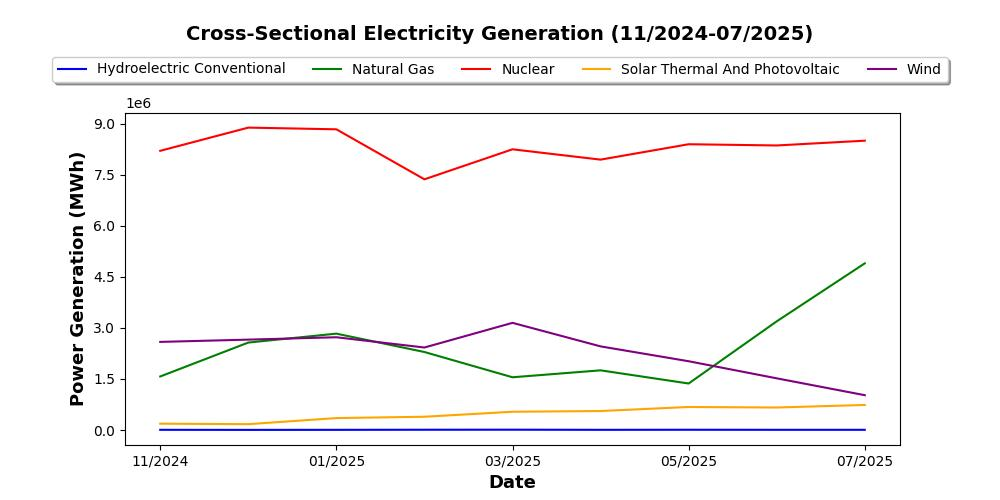
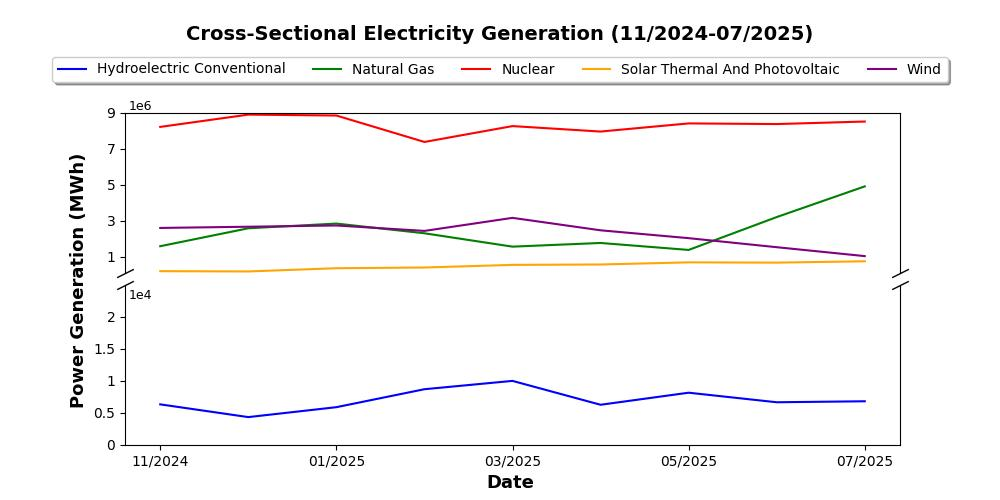
Added broken axes for better visual representation.

diff --git a/DEP/Analysis_Deck/cross_section.py b/DEP/Analysis_Deck/cross_section.py
@@ -4,9 +4,11 @@ from datetime import datetime
 from dateutil.relativedelta import relativedelta
 
 filepath = '../PTC_ts.csv'
-savefolder = 'IRA'
+savefolder_1 = 'IRA'
+savefolder_2 = 'Long Horizon'
 cols = ['Hydroelectric conventional', 'Natural gas', 'Nuclear', 'Solar thermal and photovoltaic', 'Wind']
 
+### TODO: OBJECTIVE 1
 def create_cross_section(filepath, month_start, year_start, cols, savefolder):
     data_csv = pd.read_csv(filepath)
 
@@ -20,54 +22,78 @@ def create_cross_section(filepath, month_start, year_start, cols, savefolder):
     data_csv = data_csv[['Datetime'] + cols]
 
     colors = ['blue', 'green', 'red', 'orange', 'purple']
-    fig, axs = plt.subplots(nrows=1, ncols=1, figsize=(10, 5))
-    plt.subplots_adjust(top=0.775)
-    for id, col in enumerate(cols):
-        axs.plot(data_csv['Datetime'], data_csv[col], color=colors[id], label = ' '.join([s[0].upper()+s[1:] for s in col.split()]), linewidth=1.5)
-    
-    fig.legend(loc='upper center', ncols=5, bbox_to_anchor=(0.5, 0.9), shadow=True)
-    axs.set_xlabel('Date', fontsize=13, fontweight='bold')
-    axs.set_ylabel('Power Generation (MWh)', fontsize=13, fontweight='bold')
-    fig.suptitle(f'Cross-Sectional Electricity Generation ({'/'.join(str(start_date).split()[0].split('-')[:2][::-1])}-{'/'.join(str(end_date).split()[0].split('-')[:2][::-1])})', fontsize=14, fontweight='bold', y=0.95)
-    
-    axs.set_yticks([x*1.5e6 for x in range(7)])
+    fig, axs = plt.subplots(nrows=2, ncols=1, figsize=(10, 5))
 
-    axs.set_xticks(data_csv['Datetime'].to_list()[::2])
-    axs.set_xticklabels(['/'.join(s.split('-')[:2][::-1]) for s in data_csv['Datetime'].to_list()][::2])
+    plt.subplots_adjust(top=0.775, hspace=0.075)
+
+    for id, col in enumerate(cols):
+        axs[0].plot(data_csv['Datetime'], data_csv[col], color=colors[id], label = ' '.join([s[0].upper()+s[1:] for s in col.split()]), linewidth=1.5)
+        axs[1].plot(data_csv['Datetime'], data_csv[col], color=colors[id], label = ' '.join([s[0].upper()+s[1:] for s in col.split()]), linewidth=1.5)
+    
+    axs[0].set_ylim(1e5, 9e6)
+    axs[1].set_ylim(0, 2.5e4)
+
+    axs[0].spines.bottom.set_visible(False)
+    axs[0].tick_params(top=False, bottom=False, labelbottom=False)
+    axs[0].tick_params(labeltop=False)
+    axs[1].spines.top.set_visible(False)
+    axs[1].xaxis.tick_bottom()
+
+    kwargs = dict(marker=[(-1, -0.5), (1, 0.5)], markersize=12, linestyle='none', color='k', mec='k', mew=1, clip_on=False)
+    axs[0].plot([0, 1], [0, 0], transform=axs[0].transAxes, **kwargs)
+    axs[1].plot([0, 1], [1, 1], transform=axs[1].transAxes, **kwargs)
+
+    axs[0].set_yticks([1e6+x*2e6 for x in range(5)])
+    axs[0].set_yticklabels(['1', '3', '5', '7', '9'])
+    axs[1].set_yticks([x*5e3 for x in range(5)])
+    axs[1].set_yticklabels(['0', '0.5', '1', '1.5', '2'])
+
+    axs[0].text(5e-3, 1.075, "1e6", transform=axs[0].transAxes, ha="left", va="top", fontsize=9)
+    axs[1].text(5e-3, 0.975, "1e4", transform=axs[1].transAxes, ha="left", va="top", fontsize=9)
+
+    fig.supylabel('Power Generation (MWh)', fontsize=13, fontweight='bold', x=0.07, y=0.44)
+    fig.supxlabel('Date', fontsize=13, fontweight='bold', x=0.5105, y=0.015)
+
+    handles, labels = axs[0].get_legend_handles_labels()
+    unique = dict(zip(labels, handles))
+    fig.legend(unique.values(), unique.keys(), loc="upper center", ncols=5, bbox_to_anchor=(0.5, 0.9), shadow=True)
+
+    # fig.legend(loc='upper center', ncols=5, bbox_to_anchor=(0.5, 0.9), shadow=True)
+    fig.suptitle(f'Cross-Sectional Electricity Generation ({'/'.join(str(start_date).split()[0].split('-')[:2][::-1])}-{'/'.join(str(end_date).split()[0].split('-')[:2][::-1])})', fontsize=14, fontweight='bold', y=0.95)
+    axs[1].set_xticks(data_csv['Datetime'].to_list()[::2])
+    axs[1].set_xticklabels(['/'.join(s.split('-')[:2][::-1]) for s in data_csv['Datetime'].to_list()][::2])
     plt.savefig(f'{savefolder}/{month_start}_{year_start}_event.jpg')
 
 ### IRA signed by Biden.
-create_cross_section(filepath, 8, 2022, cols, savefolder)
+create_cross_section(filepath, 8, 2022, cols, savefolder_1)
 
 ### IRA comes into effect.
-create_cross_section(filepath, 1, 2023, cols, savefolder)
+create_cross_section(filepath, 1, 2023, cols, savefolder_1)
 
 ### OBBBA signed by Trump.
-create_cross_section(filepath, 7, 2025, cols, savefolder)
+create_cross_section(filepath, 7, 2025, cols, savefolder_1)
 
 ### Clean Energy Production Tax Credit passed.
-create_cross_section(filepath, 8, 2024, cols, savefolder)
+create_cross_section(filepath, 8, 2024, cols, savefolder_1)
 
 ### IRA credits expired by Trump.
-create_cross_section(filepath, 1, 2025, cols, savefolder)
+create_cross_section(filepath, 1, 2025, cols, savefolder_1)
 
 ### Donald Trump elected.
-create_cross_section(filepath, 11, 2024, cols, savefolder)
+create_cross_section(filepath, 11, 2024, cols, savefolder_1)
 
 ### $156 million solar grant by Pritzker.
-create_cross_section(filepath, 4, 2024, cols, savefolder)
+create_cross_section(filepath, 4, 2024, cols, savefolder_1)
 
 ### ABP lottery system change.
-create_cross_section(filepath, 4, 2019, cols, savefolder)
+create_cross_section(filepath, 4, 2019, cols, savefolder_2)
 
 
-
-### TODO: FOR SIA.
+### TODO: OBJECTIVE 2
 data_csv = pd.read_csv(filepath)
 
 # Look-back two months, look ahead 6 months (8 months total interval).
 start_date = datetime.strptime('2017', '%Y')
-print(start_date)
 start_date, end_date = start_date - relativedelta(months=2), start_date + relativedelta(years=4)
 
 datetimes = pd.to_datetime(data_csv['Datetime'])
@@ -76,18 +102,43 @@ data_csv = data_csv[(datetimes >= start_date) & (datetimes <= end_date)]
 data_csv = data_csv[['Datetime'] + cols]
 
 colors = ['blue', 'green', 'red', 'orange', 'purple']
-fig, axs = plt.subplots(nrows=1, ncols=1, figsize=(10, 5))
-plt.subplots_adjust(top=0.775)
+fig, axs = plt.subplots(nrows=2, ncols=1, figsize=(10, 5))
+
+plt.subplots_adjust(top=0.775, hspace=0.075)
+
 for id, col in enumerate(cols):
-    axs.plot(data_csv['Datetime'], data_csv[col], color=colors[id], label = ' '.join([s[0].upper()+s[1:] for s in col.split()]), linewidth=1.5)
+    axs[0].plot(data_csv['Datetime'], data_csv[col], color=colors[id], label = ' '.join([s[0].upper()+s[1:] for s in col.split()]), linewidth=1.5)
+    axs[1].plot(data_csv['Datetime'], data_csv[col], color=colors[id], label = ' '.join([s[0].upper()+s[1:] for s in col.split()]), linewidth=1.5)
 
-fig.legend(loc='upper center', ncols=5, bbox_to_anchor=(0.5, 0.9), shadow=True)
-axs.set_xlabel('Date', fontsize=13, fontweight='bold')
-axs.set_ylabel('Power Generation (MWh)', fontsize=13, fontweight='bold')
+axs[0].set_ylim(1e5, 9e6)
+axs[1].set_ylim(0, 2.5e4)
+
+axs[0].spines.bottom.set_visible(False)
+axs[0].tick_params(top=False, bottom=False, labelbottom=False)
+axs[0].tick_params(labeltop=False)
+axs[1].spines.top.set_visible(False)
+axs[1].xaxis.tick_bottom()
+
+kwargs = dict(marker=[(-1, -0.5), (1, 0.5)], markersize=12, linestyle='none', color='k', mec='k', mew=1, clip_on=False)
+axs[0].plot([0, 1], [0, 0], transform=axs[0].transAxes, **kwargs)
+axs[1].plot([0, 1], [1, 1], transform=axs[1].transAxes, **kwargs)
+
+axs[0].set_yticks([1e6+x*2e6 for x in range(5)])
+axs[0].set_yticklabels(['1', '3', '5', '7', '9'])
+axs[1].set_yticks([x*5e3 for x in range(5)])
+axs[1].set_yticklabels(['0', '0.5', '1', '1.5', '2'])
+
+axs[0].text(5e-3, 1.075, "1e6", transform=axs[0].transAxes, ha="left", va="top", fontsize=9)
+axs[1].text(5e-3, 0.975, "1e4", transform=axs[1].transAxes, ha="left", va="top", fontsize=9)
+
+fig.supylabel('Power Generation (MWh)', fontsize=13, fontweight='bold', x=0.07, y=0.44)
+fig.supxlabel('Date', fontsize=13, fontweight='bold', x=0.5105, y=0.015)
+
+handles, labels = axs[0].get_legend_handles_labels()
+unique = dict(zip(labels, handles))
+fig.legend(unique.values(), unique.keys(), loc="upper center", ncols=5, bbox_to_anchor=(0.5, 0.9), shadow=True)
+
 fig.suptitle(f'Cross-Sectional Electricity Generation ({'/'.join(str(start_date).split()[0].split('-')[:2][::-1])}-{'/'.join(str(end_date).split()[0].split('-')[:2][::-1])})', fontsize=14, fontweight='bold', y=0.95)
-
-axs.set_yticks([x*1.5e6 for x in range(7)])
-
-axs.set_xticks(data_csv['Datetime'].to_list()[::5])
-axs.set_xticklabels(['/'.join(s.split('-')[:2][::-1]) for s in data_csv['Datetime'].to_list()][::5])
-plt.savefig(f'{savefolder}/2017_2021_event.jpg')
+axs[1].set_xticks(data_csv['Datetime'].to_list()[::5])
+axs[1].set_xticklabels(['/'.join(s.split('-')[:2][::-1]) for s in data_csv['Datetime'].to_list()][::5])
+plt.savefig(f'{savefolder_2}/2017_2021_event.jpg')
